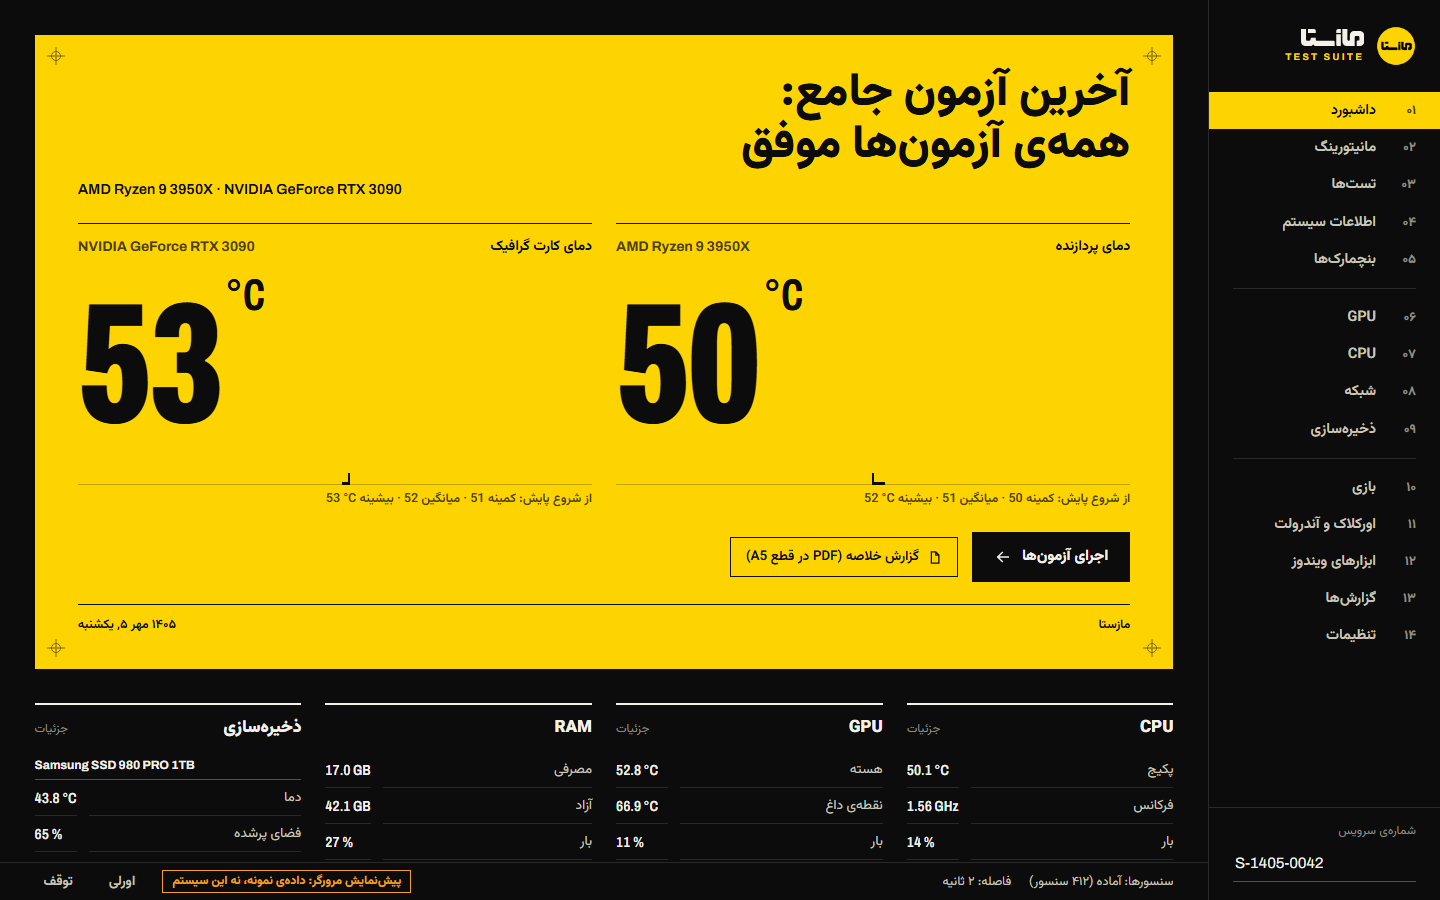
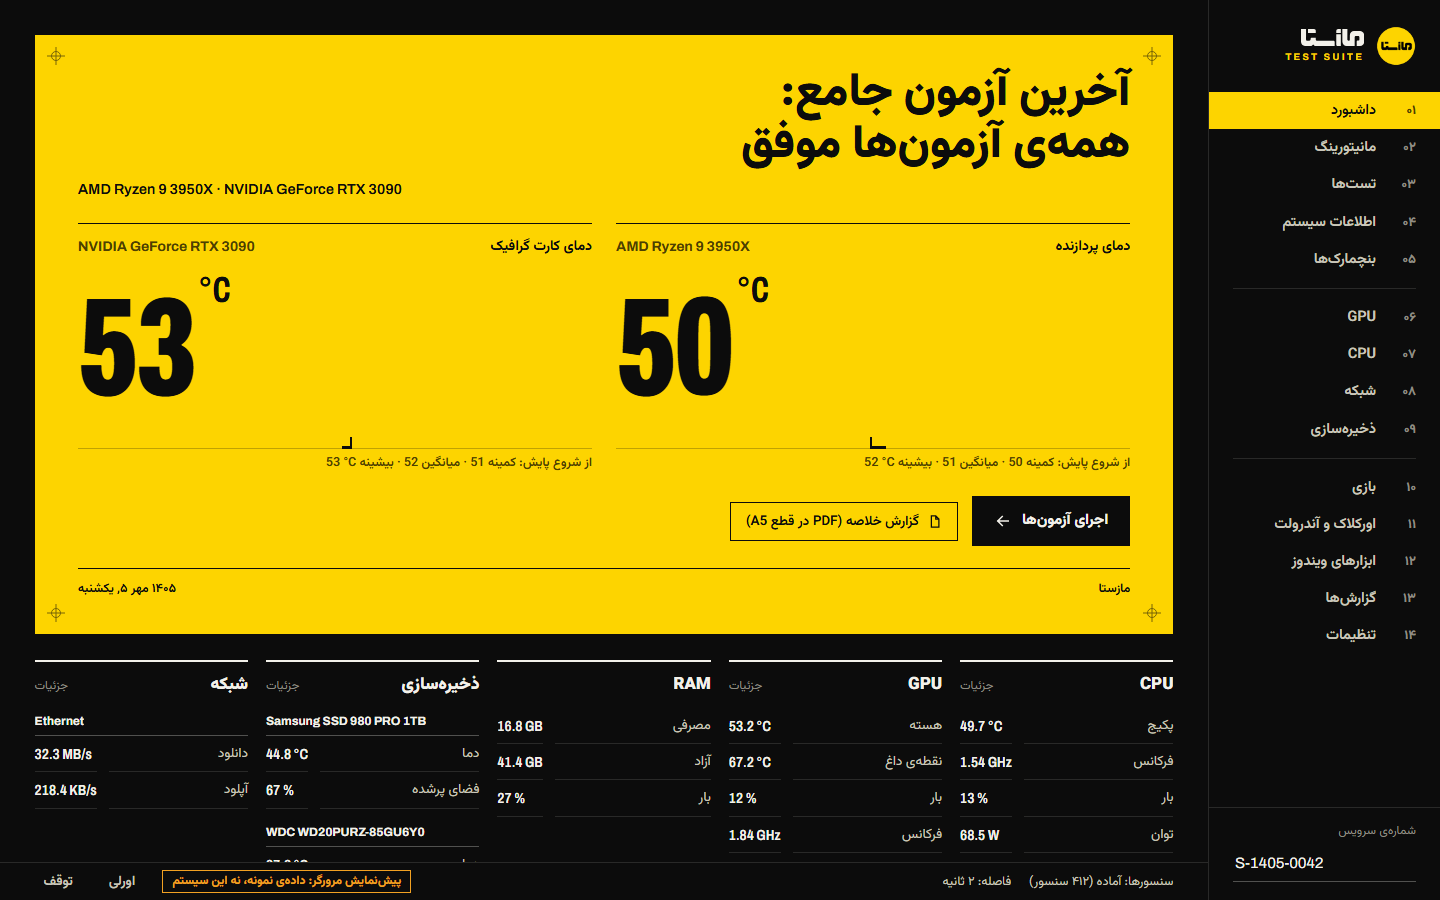
fix(web): second review round - every part column in the first viewport, spec lists in columns

diff --git a/src/Mazesta.Web/wwwroot/css/app.css b/src/Mazesta.Web/wwwroot/css/app.css
@@ -162,7 +162,7 @@ select.field option { background: var(--ink-3); color: var(--paper); }
 .giants { display: grid; grid-template-columns: repeat(2, minmax(0, 1fr)); gap: var(--gut); margin-top: clamp(12px, 2.4vh, 24px); }
 .giant { border-top: 1.5px solid var(--on-yellow); padding-top: 12px; }
 .giant .lbl { display: flex; justify-content: space-between; gap: 12px; font-weight: 700; font-size: 14px; }
-.giant .val { font: 850 clamp(72px, min(12vw, 19vh), 206px)/0.86 var(--lat); font-stretch: 62%; letter-spacing: -0.02em; direction: ltr; text-align: left; margin-top: 10px; display: flex; align-items: flex-start; font-variant-numeric: tabular-nums; }
+.giant .val { font: 850 clamp(64px, min(11vw, 15.5vh), 196px)/0.86 var(--lat); font-stretch: 62%; letter-spacing: -0.02em; direction: ltr; text-align: left; margin-top: 10px; display: flex; align-items: flex-start; font-variant-numeric: tabular-nums; }
 .giant .val .unit { font-size: 0.26em; font-weight: 700; margin: 0.18em 0.12em 0; letter-spacing: 0; }
 .giant .rng { font: 600 12.5px/1.4 var(--fa); margin-top: 6px; color: var(--on-yellow-2); }
 /* The min/max drawn as a range: a bar from min to max on a 0-100 °C scale, a tick at the current reading. */
@@ -197,6 +197,10 @@ select.field option { background: var(--ink-3); color: var(--paper); }
 .kv dt.sub { grid-column: 1 / -1; font-size: 12px; color: var(--paper); font-weight: 700; padding: 12px 0 4px; border-bottom: 1px solid var(--rule-2); text-align: left; }
 .kv dt.sub:first-child { padding-top: 2px; }
 
+/* The dashboard's part columns share one row at every window width the app allows (1024 and up). */
+.cols.parts { grid-template-columns: repeat(auto-fit, minmax(118px, 1fr)); gap: 0 18px; margin-top: 26px; }
+/* A specification keeps each label near its value: columns of a fixed measure, empty tracks kept, never one row stretched across the page. */
+.cols.spec { grid-template-columns: repeat(auto-fill, minmax(300px, 1fr)); }
 .masonry { columns: 3 300px; column-gap: calc(var(--gut) * 1.5); }
 .masonry > .col { break-inside: avoid; margin-bottom: 34px; }
 

diff --git a/src/Mazesta.Web/wwwroot/js/pages/dashboard.js b/src/Mazesta.Web/wwwroot/js/pages/dashboard.js
@@ -37,7 +37,7 @@ export function mount(el) {
   const line = (label, sensor) => { const v = h("dd", { class: "num" }); rows.push([sensor, v]); return [h("dt", {}, label), v]; };
   const col = (title, page, i, ...body) => h("div", { class: "col", style: { "--i": i } },
     h("div", { class: "col-head" }, h("span", { class: "h3" }, title), page ? h("a", { href: `#/${page}` }, t("Web_Dash_More")) : null), h("dl", { class: "kv" }, body));
-  const cols = h("div", { class: "cols" },
+  const cols = h("div", { class: "cols parts" },
     cpu && col(t("Nav_Cpu"), "cpu", 1,
       line(t("Dashboard_Line_Package"), cpuTemp), line(t("Dashboard_Line_Clock"), pick(cpu, "CpuEffectiveClockAverage", "CpuCoreClockAverage", "CpuCoreClock")),
       line(t("Dashboard_Line_Load"), pick(cpu, "CpuTotalLoad")), line(t("Dashboard_Line_Power"), pick(cpu, "CpuPackagePower"))),

diff --git a/src/Mazesta.Web/wwwroot/js/pages/component.js b/src/Mazesta.Web/wwwroot/js/pages/component.js
@@ -27,7 +27,7 @@ export function mount(el, kind) {
         cells.push([s, v]);
         return h("div", { class: "giant" }, h("div", { class: "lbl" }, h("span", {}, t(key)), nodes.length > 1 ? h("span", { class: "muted lat" }, n.name) : null), v);
       }))));
-  const specs = h("div", { class: "cols", style: { marginTop: "4px" } });
+  const specs = h("div", { class: "cols spec", style: { marginTop: "4px" } });
   const sensorBox = h("div", {});
   const bench = benchList(kind);
   el.append(band,
